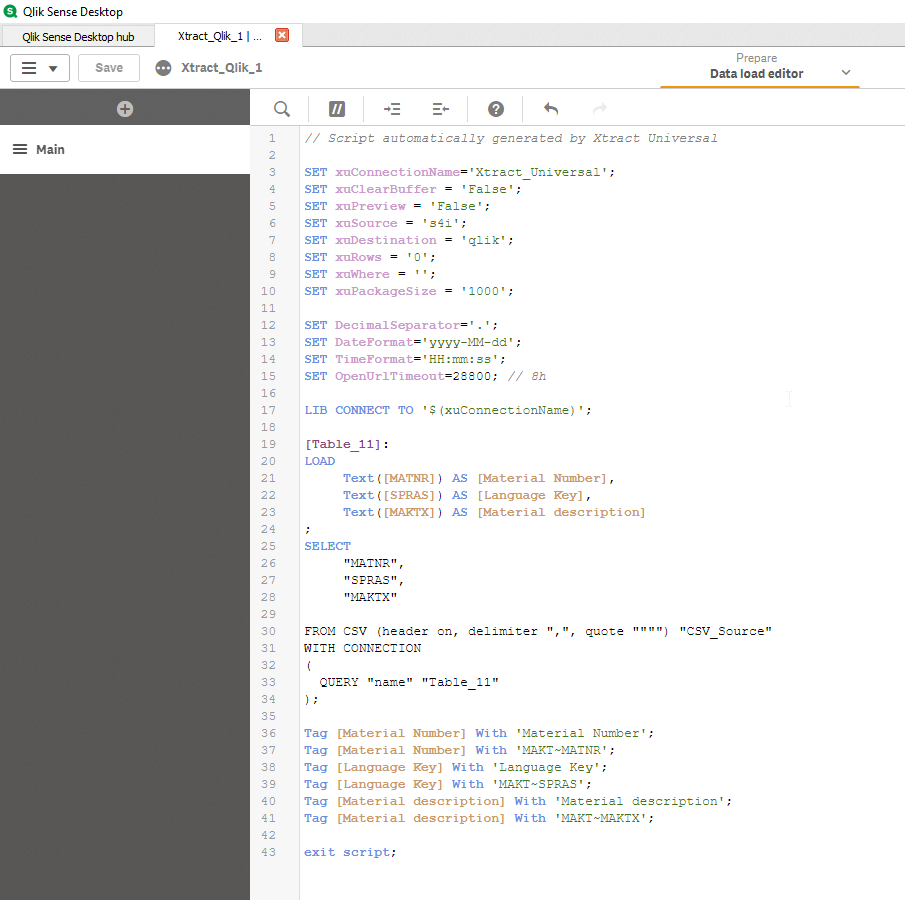
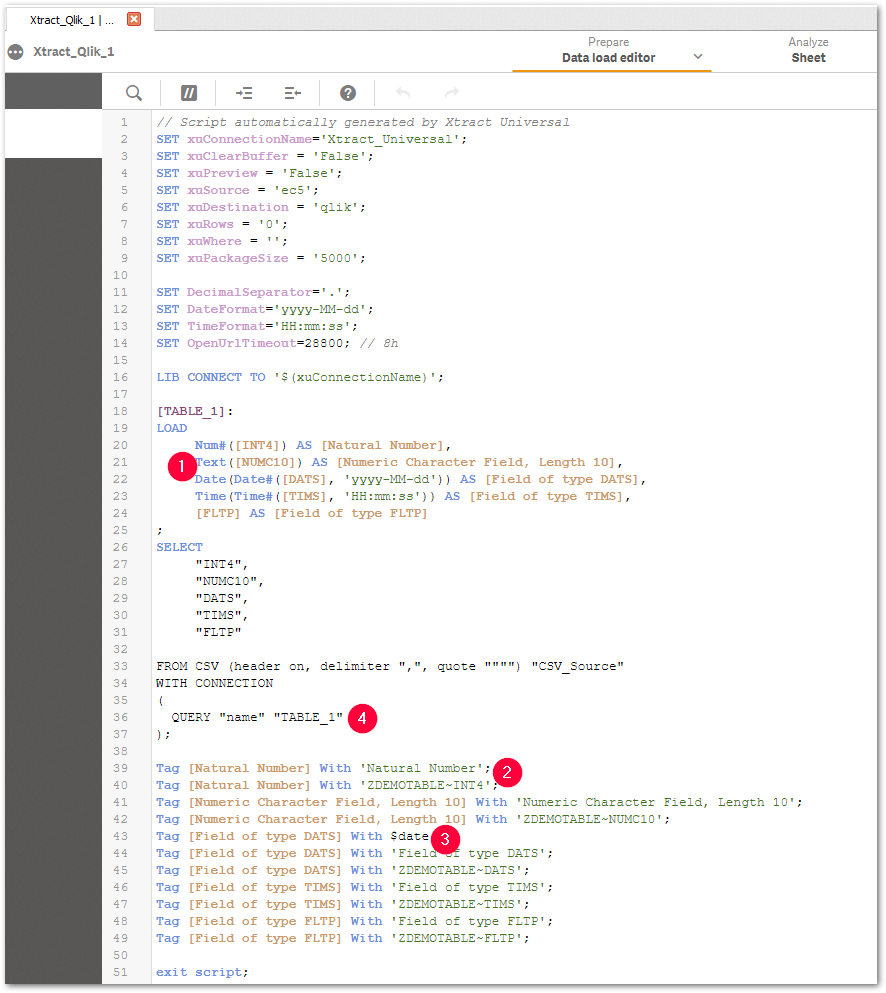
XU:EN: Qlik Destination

diff --git a/content/_en/xtract-universal/xu-destinations/qliksense-qlikview/settings-in-qlik-sense.md b/content/_en/xtract-universal/xu-destinations/qliksense-qlikview/settings-in-qlik-sense.md
@@ -14,7 +14,7 @@ old_url: /Xtract-Universal-EN/default.aspx?pageid=settings_in_qliksense
 
 ### Triggering an extraction from QlikSense
 
-Before using the Qlik script generated by Xtract Universal in QlikSense, you need to perform the following steps in QlikSense:
+Before copying the Qlik script generated by Xtract Universal to QlikSense, you need to perform the following steps in QlikSense:
 
 1. Create a new Data connection of type REST.
 2. Enter the URL of the Xtract Universal Server and port in the URL text box. In the screenshot below, the Xtract Universal server is running on http://localhost:8065/
@@ -27,12 +27,19 @@ Before using the Qlik script generated by Xtract Universal in QlikSense, you nee
 
     ![XU_qlik_QlikSense_load_editor](/img/content/XU_qlik_QlikSense_load_editor.png){:class="img-responsive"}
 	
-5. Click on **[Load data]** to trigger an extraction in Xtract Universal and load the extracted SAP data directly to QlikSense.
-
-    ![XU_qlik_QlikSense_load_data_button](/img/content/XU_qlik_QlikSense_load_data_button.png){:class="img-responsive"}
 
 
 ### QlikSense data load script explained
 
-Xtract Universal converts SAP data types into equivalent data types in QlikSense. Tags are used to specify description text, origin of a field in SAP as well as to connote fields of data type *date*.
+1. Xtract Universal creates a QlikSense script that usese QlikSense [interpretation functions](https://help.qlik.com/en-US/sense/June2020/Subsystems/Hub/Content/Sense_Hub/Scripting/InterpretationFunctions/interpretation-functions.htm) *Num#*, *Text*, *Date* and *Time* where applicable. For fields, where an adequate data type can't be determined, no interpretation function is used.
+
+2. Xtract Universal creates a QlikSense script that assigns the field description and the SAP origin of the field as tags to all fields.
+
+3. Xtract Universal creates a QlikSense script that explicitly assigns *$date* as a tag to all date fields, so that fields containing a date before [January 1, 1980](https://help.qlik.com/en-US/sense/April2020/Subsystems/Hub/Content/Sense_Hub/Scripting/date-time-interpretation.htm) are still recognized as date fields in QlikSense.
+
+4. The QlikSense script supports usage of XU [Extraction Parameters](../../advanced-techniques/extraction-parameters). 
+
+  ![XU_qlik_QlikSense_XUParameter](/img/content/XU_qlik_QlikSense_XUParameter.png){:class="img-responsive"}
+  
+  ![XU_qlik_QlikSense_XUParameter_Log](/img/content/XU_qlik_QlikSense_XUParameter_Log.png){:class="img-responsive"}
 

diff --git a/content/_en/xtract-universal/xu-destinations/qliksense-qlikview/qq-connection.md b/content/_en/xtract-universal/xu-destinations/qliksense-qlikview/qq-connection.md
@@ -14,7 +14,7 @@ old_url: /Xtract-Universal-EN/default.aspx?pageid=connection3
 ### Adding a Qlik Destination
 1. In the main window of the Designer, navigate to **[Server] > [Manage Destinations]**. The window "Manage Destinations" opens.
 2. Click **[Add]** to add a new destination. The window "Destination Details" opens.
-![XU_parquet_Destination](/img/content/xu/parquet/parquet_manage_destination.png){:class="img-responsive"}
+![XU_Qlik_Destination](/img/content/XU_qlik_manage_destination.png){:class="img-responsive"}
 3. Select the *Qlik* destination from the drop-down list.
 4. Click **[OK]** to confirm.
 

diff --git a/content/_en/xtract-universal/xu-destinations/qliksense-qlikview.md b/content/_en/xtract-universal/xu-destinations/qliksense-qlikview.md
@@ -20,3 +20,4 @@ For this purpose Xtract Universal offers a destination of type *Qlik*. This dest
 Running the qlik application triggers the respective Xtract Universal extraction via the data load script. Xtract Universal sends the extracted SAP data through an http-csv stream directly to your qlik application.
 
 {% include _content/table-of-contents.html parent=page.childidentifier collection=site.en %}
+
